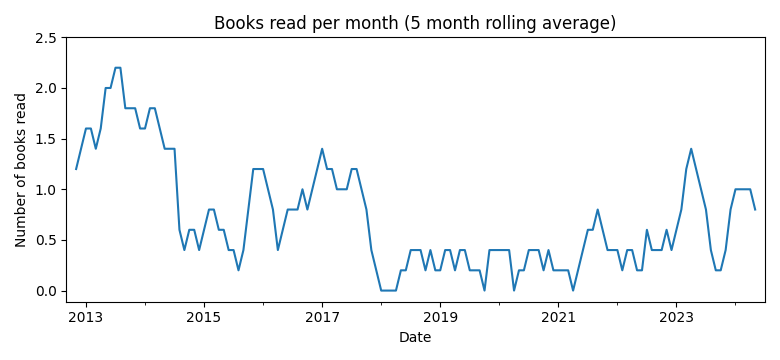
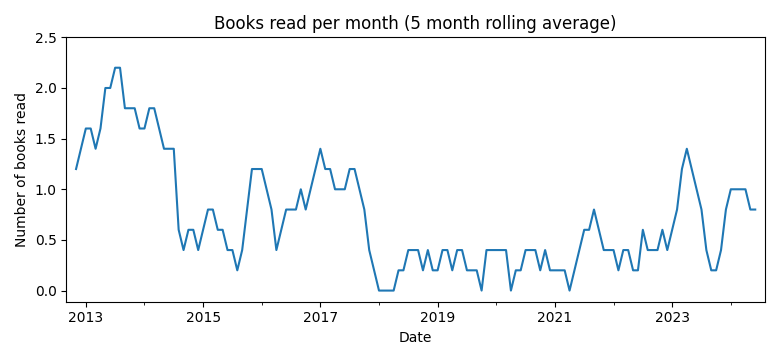
afutd

diff --git a/README.md b/README.md
@@ -6,13 +6,16 @@ The most significant events impacting the number of books I read are
 * The birth of my daughers in 2018/01 and 2019/08
 
 ### Statistics
-Total number of books read: 104  
-Books per month: 0.73 (2012/9 to 2024/7)
+Total number of books read: 105  
+Books per month: 0.73 (2012/9 to 2024/8)
 
 ![Books recorded by year](book_recorded.png)
 ![Books read per month](book_read.png)
 
 ### List of books
+*A fire upon the deep*, Vernor Vinge  
+Finished: 2024.08.18
+
 *Neuromancer*, William Gibson  
 Finished: 2024.07.20
 
